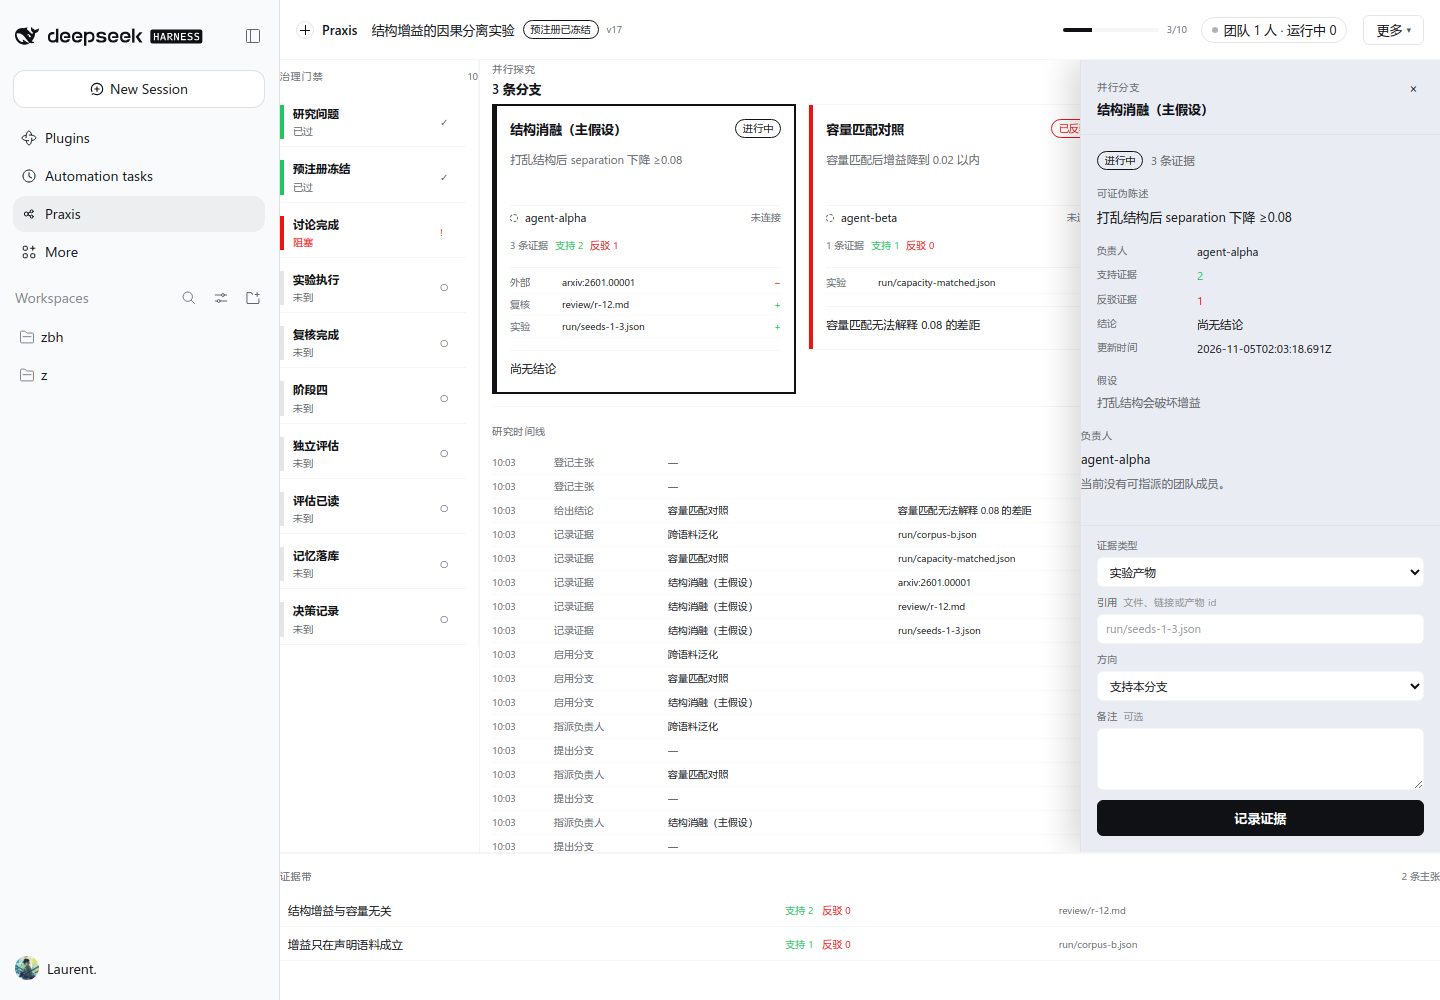
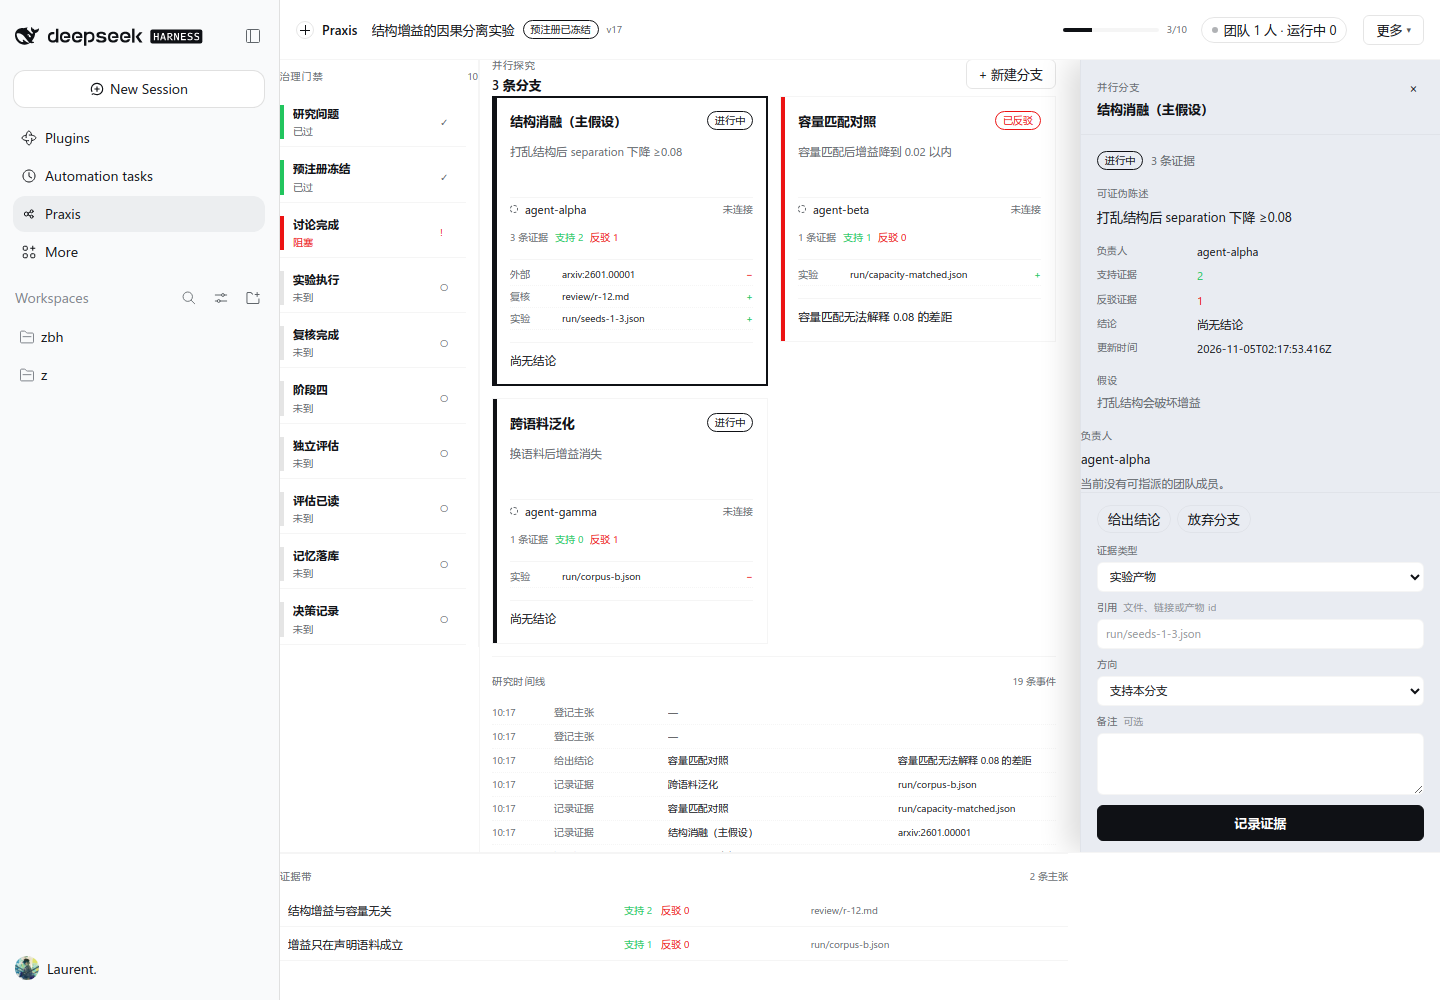
feat(client): branch verdict and drop actions; inspector reserves its column
- active branches expose 给出结论 / 放弃分支 as alternate actions; verdict requires a
  written reason (B1) and drop requires a reason, so a branch can reach a conclusion
  from the UI instead of only through the tool surface
- the inspector reserves a 372px column so the board, timeline and evidence band are
  never covered while a detail panel is open
- evidence refreshed on build 69431bb0, manifest gate passes (>=2 parallel branches)

diff --git a/plugins/dsh-praxis/client.js b/plugins/dsh-praxis/client.js
@@ -847,7 +847,18 @@ function InspectCloseButton({ onClose }) {
 function InspectBranchAction(branch) {
   const status = branch?.status;
   if (status === 'proposed') return { id: 'branch_activate', label: '启用分支', form: 'none', payload: { branchId: branch?.id } };
-  if (status === 'active') return { id: 'branch_evidence', label: '记录证据', form: 'branch_evidence', payload: { branchId: branch?.id } };
+  if (status === 'active') {
+    return {
+      id: 'branch_evidence',
+      label: '记录证据',
+      form: 'branch_evidence',
+      payload: { branchId: branch?.id },
+      alternates: [
+        { id: 'branch_verdict', label: '给出结论', form: 'branch_verdict' },
+        { id: 'branch_drop', label: '放弃分支', form: 'branch_drop' },
+      ],
+    };
+  }
   if (status === 'supported' || status === 'refuted' || status === 'inconclusive') {
     return { id: 'branch_merge', label: '合流到研究结论', form: 'branch_merge', payload: { branchId: branch?.id } };
   }
@@ -998,9 +1009,19 @@ function InspectSubmitArea({ action, onAction, run, branch, catalog }) {
   const [values, setValues] = useState({});
   const [pending, setPending] = useState(false);
   const [error, setError] = useState('');
-  const kind = action?.form ?? 'none';
+  const [altId, setAltId] = useState('');
+  const alternates = action?.alternates ?? [];
+  const alt = alternates.find((item) => item.id === altId) ?? null;
+  const activeAction = alt ? { ...action, id: alt.id, label: alt.label, form: alt.form } : action;
+  const kind = activeAction?.form ?? 'none';
 
   function build() {
+    if (kind === 'branch_verdict') {
+      return { branchId: action.payload?.branchId, verdict: values.verdict ?? 'supported', reason: String(values.reason ?? '').trim() || '证据一致' };
+    }
+    if (kind === 'branch_drop') {
+      return { branchId: action.payload?.branchId, reason: String(values.dropReason ?? '').trim() || '方向不再优先' };
+    }
     if (kind === 'branch_evidence') {
       return {
         branchId: action.payload?.branchId,
@@ -1013,6 +1034,7 @@ function InspectSubmitArea({ action, onAction, run, branch, catalog }) {
     if (kind === 'branch_merge') {
       return { branchId: action.payload?.branchId, into: values.into ?? 'b_main' };
     }
+    if (kind === 'branch_activate') return { branchId: action.payload?.branchId };
     if (kind === 'question') {
       return { question: { text: String(values.text ?? '').trim(), hypothesis: String(values.hypothesis ?? '').trim(), unknowns: String(values.unknowns ?? '').split(/[,\n]/).map((x) => x.trim()).filter(Boolean) } };
     }
@@ -1048,6 +1070,9 @@ function InspectSubmitArea({ action, onAction, run, branch, catalog }) {
     if (kind === 'branch_evidence') {
       if (!String(values.ref ?? '').trim()) return '证据引用不能为空（文件、链接或实验产物 id）';
     }
+    if (kind === 'branch_verdict') {
+      if (!String(values.reason ?? '').trim()) return '给出结论必须写理由：哪条证据支持这个判断';
+    }
     if (kind === 'question') {
       if (String(values.text ?? '').trim().length < 4) return '研究问题至少 4 个字符';
       if (String(values.hypothesis ?? '').trim().length < 4) return '假设至少 4 个字符';
@@ -1067,7 +1092,7 @@ function InspectSubmitArea({ action, onAction, run, branch, catalog }) {
     setError('');
     setPending(true);
     try {
-      const receipt = await onAction?.(action.id, build());
+      const receipt = await onAction?.(activeAction.id, build());
       if (!receipt || receipt.status === 'rejected') {
         const code = receipt?.reasonCode ?? 'REJECTED';
         setError(`提交被拒绝：${code}`);
@@ -1091,6 +1116,18 @@ function InspectSubmitArea({ action, onAction, run, branch, catalog }) {
           h(PrimSelect, { value: values.supports ?? 'support', onChange: set('supports'), options: [['support', '支持本分支'], ['contradict', '反驳本分支']] })),
         h(PrimField, { label: '备注', hint: '可选' },
           h(PrimArea, { value: values.note ?? '', rows: 2, onChange: set('note') })));
+    }
+    if (kind === 'branch_verdict') {
+      return h('div', { className: 'px-v4-form', 'data-testid': 'branch-verdict-form' },
+        h(PrimField, { label: '结论' },
+          h(PrimSelect, { value: values.verdict ?? 'supported', onChange: set('verdict'), options: [['supported', '支持本分支'], ['refuted', '否定本分支'], ['inconclusive', '证据不足']] })),
+        h(PrimField, { label: '理由' },
+          h(PrimArea, { value: values.reason ?? '', rows: 3, placeholder: '哪条证据支持这个判断', onChange: set('reason') })));
+    }
+    if (kind === 'branch_drop') {
+      return h('div', { className: 'px-v4-form' },
+        h(PrimField, { label: '放弃理由' },
+          h(PrimInput, { value: values.dropReason ?? '', onChange: set('dropReason') })));
     }
     if (kind === 'branch_merge') {
       return h('div', { className: 'px-v4-form' },
@@ -1140,16 +1177,27 @@ function InspectSubmitArea({ action, onAction, run, branch, catalog }) {
   })();
 
   return h('div', { className: 'px-v4-submit' },
+    alternates.length
+      ? h('div', { className: 'px-v4-alt-actions' },
+        alternates.map((item) => h('button', {
+          key: item.id,
+          type: 'button',
+          className: `px-v4-alt${altId === item.id ? ' is-on' : ''}`,
+          'data-testid': 'alternate-action',
+          'data-action': item.id,
+          onClick: () => { setAltId(altId === item.id ? '' : item.id); setError(''); },
+        }, altId === item.id ? `返回${action?.label ?? '主操作'}` : item.label)))
+      : null,
     form,
     error ? h('p', { className: 'px-v4-form-error', 'data-testid': 'action-error', role: 'alert' }, error) : null,
     h('button', {
       type: 'button',
       className: 'px-btn primary px-v4-inspect-primary',
       'data-testid': 'primary',
-      'data-action': action?.id ?? '',
+      'data-action': activeAction?.id ?? '',
       disabled: pending,
       onClick: submit,
-    }, pending ? '提交中…' : action?.label ?? '提交'));
+    }, pending ? '提交中…' : activeAction?.label ?? '提交'));
 }
 
 function InspectPanel({ selection, run, branch, member, evidenceRow, catalog, onAction, onClose }) {
@@ -1207,6 +1255,10 @@ const InspectCss = `
 .px-v4-submit { display:grid; gap:10px; }
 .px-v4-form { display:grid; gap:8px; }
 .px-v4-form-error { margin:0; color:var(--dsw-alias-state-error-primary); font-size:var(--px-fs-3); }
+.px-v4-alt-actions { display:flex; gap:6px; flex-wrap:wrap; }
+.px-v4-alt { border:1px solid var(--dsw-alias-border-l1); background:transparent; color:var(--dsw-alias-label-secondary); border-radius:999px; padding:3px 10px; font:inherit; font-size:var(--px-fs-3); cursor:pointer; }
+.px-v4-alt:hover { color:var(--dsw-alias-label-primary); border-color:var(--dsw-alias-border-l2); }
+.px-v4-alt.is-on { color:var(--dsw-alias-brand-primary); border-color:var(--dsw-alias-brand-primary); }
 @media (max-width:1180px) { .px-v4-inspector { top:auto; left:0; width:100%; max-height:46vh; } }
 `;
 
@@ -1659,6 +1711,7 @@ function ShellApp() {
     'data-praxis': 'app',
     'data-testid': 'praxis-shell',
     'data-scene': active ? 'run' : 'empty',
+    'data-inspector': selection ? 'true' : 'false',
   },
   h('style', null, CssText),
   h(ShellRunBar, {
@@ -2040,6 +2093,8 @@ const CssBase = `
   position: absolute; right: 0; top: 0; bottom: 0; width: 360px; z-index: 12;
 }
 .px-v4-band { flex: 0 0 148px; border-top: 1px solid var(--dsw-alias-border-l1); overflow: auto; }
+.px-shell[data-inspector="true"] .px-v4-board,
+.px-shell[data-inspector="true"] .px-v4-band { padding-right: 372px; }
 .px-rail-empty { padding: 16px; font-size: var(--px-fs-2); color: var(--dsw-alias-label-secondary); }
 .px-empty-stage { position: absolute; inset: 0; display: grid; place-items: center; padding: 24px; }
 

diff --git a/plugins/dsh-praxis/client/40-inspector.js b/plugins/dsh-praxis/client/40-inspector.js
@@ -53,7 +53,18 @@ function InspectCloseButton({ onClose }) {
 function InspectBranchAction(branch) {
   const status = branch?.status;
   if (status === 'proposed') return { id: 'branch_activate', label: '启用分支', form: 'none', payload: { branchId: branch?.id } };
-  if (status === 'active') return { id: 'branch_evidence', label: '记录证据', form: 'branch_evidence', payload: { branchId: branch?.id } };
+  if (status === 'active') {
+    return {
+      id: 'branch_evidence',
+      label: '记录证据',
+      form: 'branch_evidence',
+      payload: { branchId: branch?.id },
+      alternates: [
+        { id: 'branch_verdict', label: '给出结论', form: 'branch_verdict' },
+        { id: 'branch_drop', label: '放弃分支', form: 'branch_drop' },
+      ],
+    };
+  }
   if (status === 'supported' || status === 'refuted' || status === 'inconclusive') {
     return { id: 'branch_merge', label: '合流到研究结论', form: 'branch_merge', payload: { branchId: branch?.id } };
   }
@@ -204,9 +215,19 @@ function InspectSubmitArea({ action, onAction, run, branch, catalog }) {
   const [values, setValues] = useState({});
   const [pending, setPending] = useState(false);
   const [error, setError] = useState('');
-  const kind = action?.form ?? 'none';
+  const [altId, setAltId] = useState('');
+  const alternates = action?.alternates ?? [];
+  const alt = alternates.find((item) => item.id === altId) ?? null;
+  const activeAction = alt ? { ...action, id: alt.id, label: alt.label, form: alt.form } : action;
+  const kind = activeAction?.form ?? 'none';
 
   function build() {
+    if (kind === 'branch_verdict') {
+      return { branchId: action.payload?.branchId, verdict: values.verdict ?? 'supported', reason: String(values.reason ?? '').trim() || '证据一致' };
+    }
+    if (kind === 'branch_drop') {
+      return { branchId: action.payload?.branchId, reason: String(values.dropReason ?? '').trim() || '方向不再优先' };
+    }
     if (kind === 'branch_evidence') {
       return {
         branchId: action.payload?.branchId,
@@ -219,6 +240,7 @@ function InspectSubmitArea({ action, onAction, run, branch, catalog }) {
     if (kind === 'branch_merge') {
       return { branchId: action.payload?.branchId, into: values.into ?? 'b_main' };
     }
+    if (kind === 'branch_activate') return { branchId: action.payload?.branchId };
     if (kind === 'question') {
       return { question: { text: String(values.text ?? '').trim(), hypothesis: String(values.hypothesis ?? '').trim(), unknowns: String(values.unknowns ?? '').split(/[,\n]/).map((x) => x.trim()).filter(Boolean) } };
     }
@@ -254,6 +276,9 @@ function InspectSubmitArea({ action, onAction, run, branch, catalog }) {
     if (kind === 'branch_evidence') {
       if (!String(values.ref ?? '').trim()) return '证据引用不能为空（文件、链接或实验产物 id）';
     }
+    if (kind === 'branch_verdict') {
+      if (!String(values.reason ?? '').trim()) return '给出结论必须写理由：哪条证据支持这个判断';
+    }
     if (kind === 'question') {
       if (String(values.text ?? '').trim().length < 4) return '研究问题至少 4 个字符';
       if (String(values.hypothesis ?? '').trim().length < 4) return '假设至少 4 个字符';
@@ -273,7 +298,7 @@ function InspectSubmitArea({ action, onAction, run, branch, catalog }) {
     setError('');
     setPending(true);
     try {
-      const receipt = await onAction?.(action.id, build());
+      const receipt = await onAction?.(activeAction.id, build());
       if (!receipt || receipt.status === 'rejected') {
         const code = receipt?.reasonCode ?? 'REJECTED';
         setError(`提交被拒绝：${code}`);
@@ -297,6 +322,18 @@ function InspectSubmitArea({ action, onAction, run, branch, catalog }) {
           h(PrimSelect, { value: values.supports ?? 'support', onChange: set('supports'), options: [['support', '支持本分支'], ['contradict', '反驳本分支']] })),
         h(PrimField, { label: '备注', hint: '可选' },
           h(PrimArea, { value: values.note ?? '', rows: 2, onChange: set('note') })));
+    }
+    if (kind === 'branch_verdict') {
+      return h('div', { className: 'px-v4-form', 'data-testid': 'branch-verdict-form' },
+        h(PrimField, { label: '结论' },
+          h(PrimSelect, { value: values.verdict ?? 'supported', onChange: set('verdict'), options: [['supported', '支持本分支'], ['refuted', '否定本分支'], ['inconclusive', '证据不足']] })),
+        h(PrimField, { label: '理由' },
+          h(PrimArea, { value: values.reason ?? '', rows: 3, placeholder: '哪条证据支持这个判断', onChange: set('reason') })));
+    }
+    if (kind === 'branch_drop') {
+      return h('div', { className: 'px-v4-form' },
+        h(PrimField, { label: '放弃理由' },
+          h(PrimInput, { value: values.dropReason ?? '', onChange: set('dropReason') })));
     }
     if (kind === 'branch_merge') {
       return h('div', { className: 'px-v4-form' },
@@ -346,16 +383,27 @@ function InspectSubmitArea({ action, onAction, run, branch, catalog }) {
   })();
 
   return h('div', { className: 'px-v4-submit' },
+    alternates.length
+      ? h('div', { className: 'px-v4-alt-actions' },
+        alternates.map((item) => h('button', {
+          key: item.id,
+          type: 'button',
+          className: `px-v4-alt${altId === item.id ? ' is-on' : ''}`,
+          'data-testid': 'alternate-action',
+          'data-action': item.id,
+          onClick: () => { setAltId(altId === item.id ? '' : item.id); setError(''); },
+        }, altId === item.id ? `返回${action?.label ?? '主操作'}` : item.label)))
+      : null,
     form,
     error ? h('p', { className: 'px-v4-form-error', 'data-testid': 'action-error', role: 'alert' }, error) : null,
     h('button', {
       type: 'button',
       className: 'px-btn primary px-v4-inspect-primary',
       'data-testid': 'primary',
-      'data-action': action?.id ?? '',
+      'data-action': activeAction?.id ?? '',
       disabled: pending,
       onClick: submit,
-    }, pending ? '提交中…' : action?.label ?? '提交'));
+    }, pending ? '提交中…' : activeAction?.label ?? '提交'));
 }
 
 function InspectPanel({ selection, run, branch, member, evidenceRow, catalog, onAction, onClose }) {
@@ -413,5 +461,9 @@ const InspectCss = `
 .px-v4-submit { display:grid; gap:10px; }
 .px-v4-form { display:grid; gap:8px; }
 .px-v4-form-error { margin:0; color:var(--dsw-alias-state-error-primary); font-size:var(--px-fs-3); }
+.px-v4-alt-actions { display:flex; gap:6px; flex-wrap:wrap; }
+.px-v4-alt { border:1px solid var(--dsw-alias-border-l1); background:transparent; color:var(--dsw-alias-label-secondary); border-radius:999px; padding:3px 10px; font:inherit; font-size:var(--px-fs-3); cursor:pointer; }
+.px-v4-alt:hover { color:var(--dsw-alias-label-primary); border-color:var(--dsw-alias-border-l2); }
+.px-v4-alt.is-on { color:var(--dsw-alias-brand-primary); border-color:var(--dsw-alias-brand-primary); }
 @media (max-width:1180px) { .px-v4-inspector { top:auto; left:0; width:100%; max-height:46vh; } }
 `;

diff --git a/plugins/dsh-praxis/client/70-css.js b/plugins/dsh-praxis/client/70-css.js
@@ -164,6 +164,8 @@ const CssBase = `
   position: absolute; right: 0; top: 0; bottom: 0; width: 360px; z-index: 12;
 }
 .px-v4-band { flex: 0 0 148px; border-top: 1px solid var(--dsw-alias-border-l1); overflow: auto; }
+.px-shell[data-inspector="true"] .px-v4-board,
+.px-shell[data-inspector="true"] .px-v4-band { padding-right: 372px; }
 .px-rail-empty { padding: 16px; font-size: var(--px-fs-2); color: var(--dsw-alias-label-secondary); }
 .px-empty-stage { position: absolute; inset: 0; display: grid; place-items: center; padding: 24px; }
 

diff --git a/plugins/dsh-praxis/client/60-shell.js b/plugins/dsh-praxis/client/60-shell.js
@@ -242,6 +242,7 @@ function ShellApp() {
     'data-praxis': 'app',
     'data-testid': 'praxis-shell',
     'data-scene': active ? 'run' : 'empty',
+    'data-inspector': selection ? 'true' : 'false',
   },
   h('style', null, CssText),
   h(ShellRunBar, {
